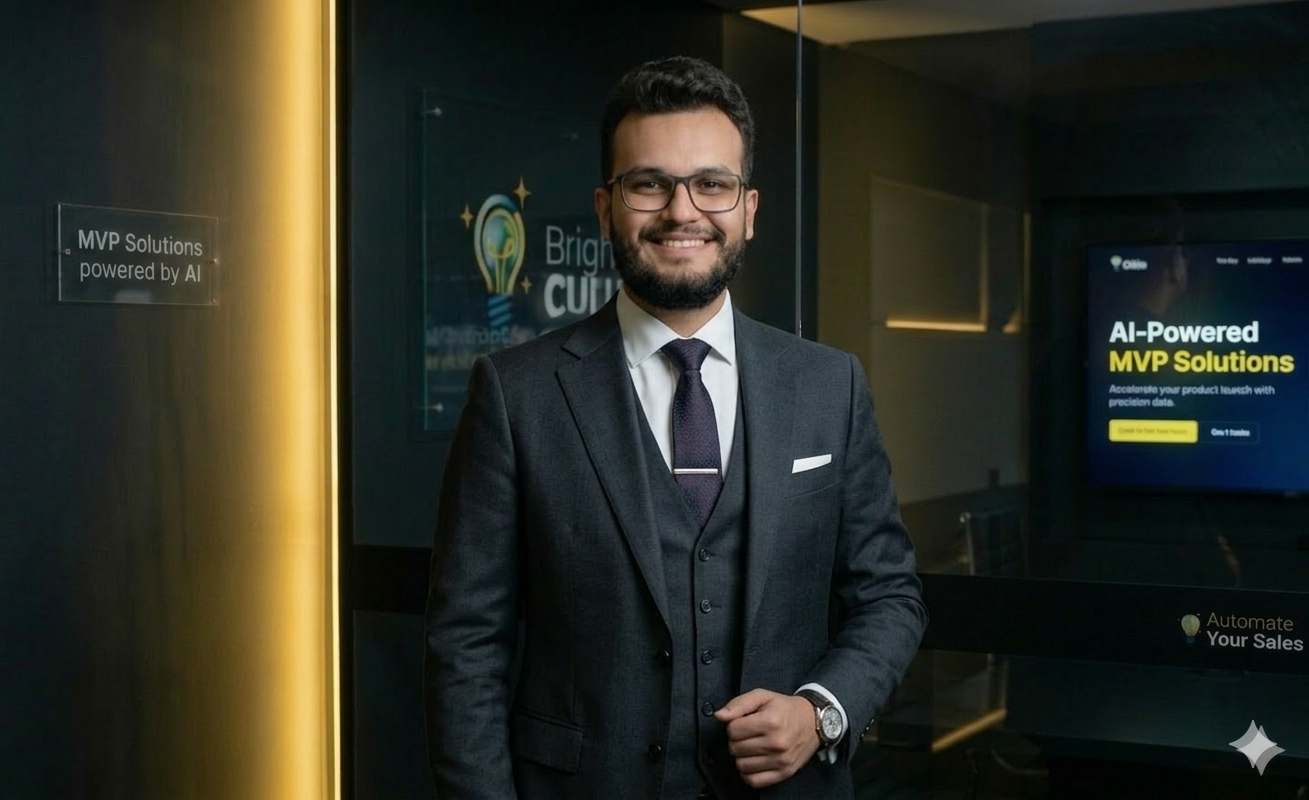
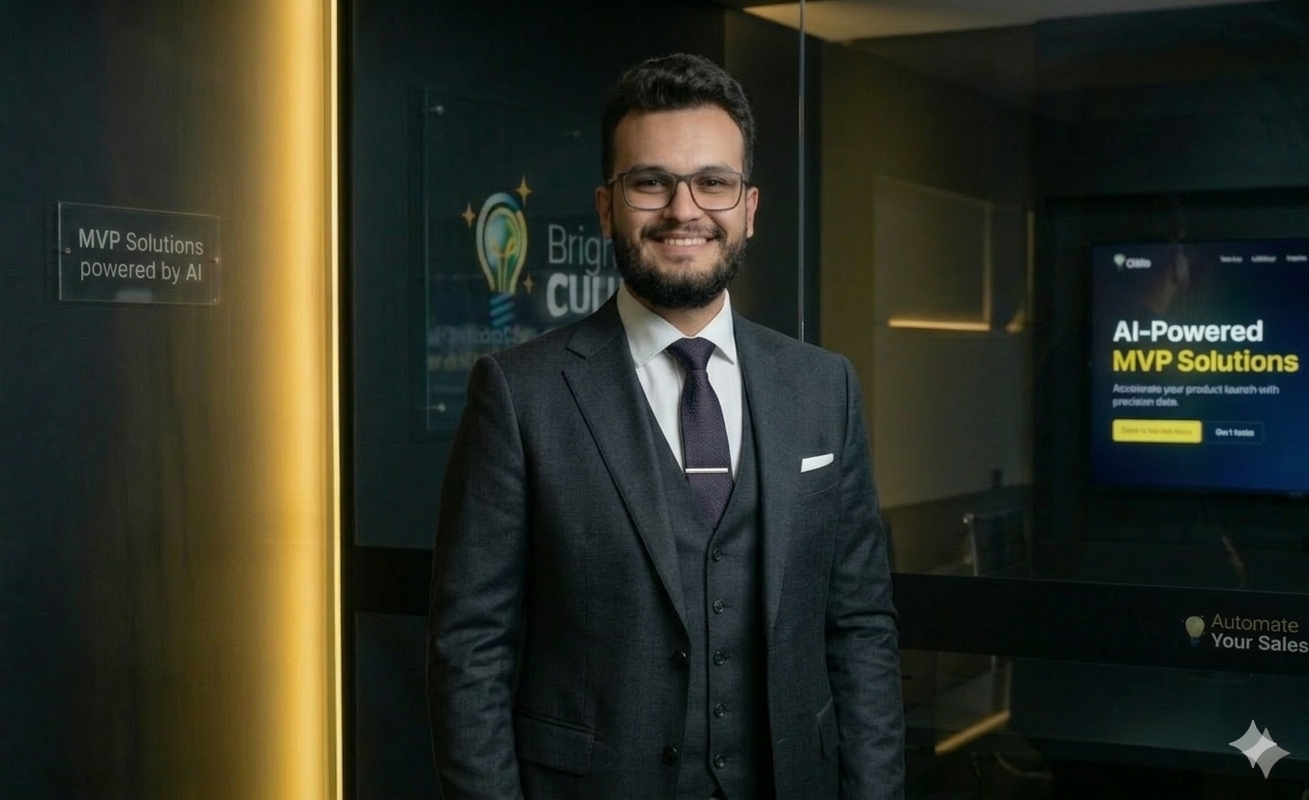
feat: update Rafael's image and full name

diff --git a/src/components/Founders/Founders.tsx b/src/components/Founders/Founders.tsx
@@ -23,10 +23,10 @@ const Founders: React.FC = () => {
 
         <div className="founder-card glass-panel">
           <div className="founder-image-wrapper">
-            <img src={rafaelImg} alt="Rafael" className="founder-image" />
+            <img src={rafaelImg} alt="Rafael Figueiredo" className="founder-image" />
           </div>
           <div className="founder-info">
-            <h3>Rafael</h3>
+            <h3>Rafael Figueiredo</h3>
             <p className="founder-role">Operations & Scaling</p>
             <p className="founder-bio">
               Expert in automating complex operational workflows and ROI-driven implementation.
